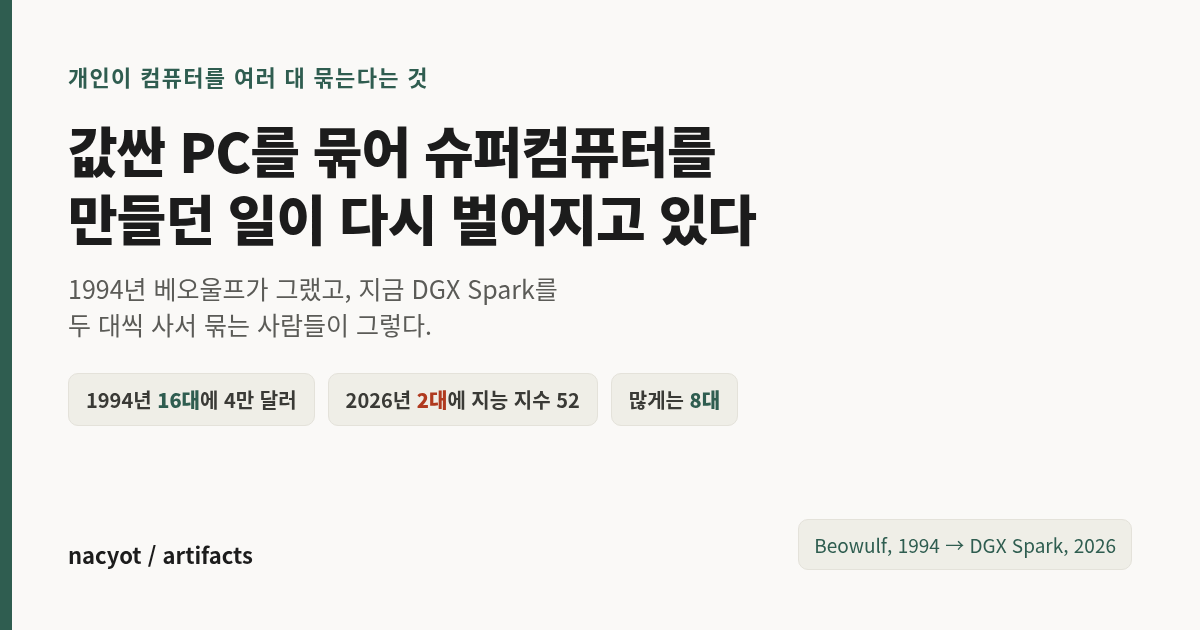
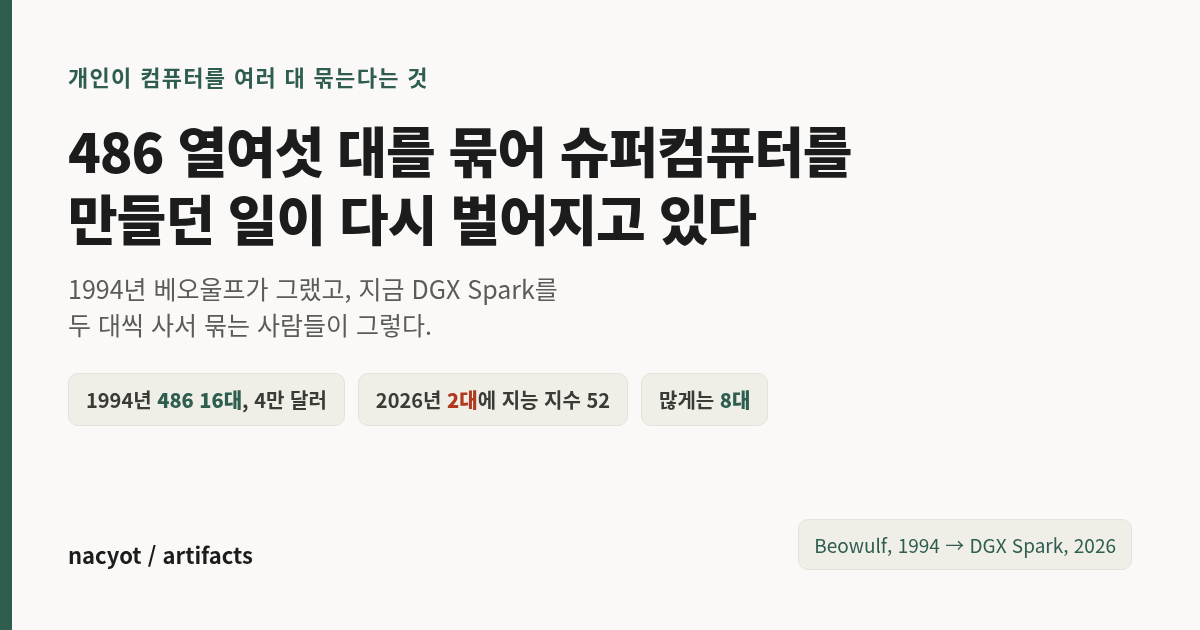
베오울프 글: 개인이 컴퓨터를 여러 대 묶는 드문 일, 1994년과 2026년
1995년 ICPP/HPDC 논문 원문, 커널 소스, NASA·Red Hat·LWN 1차 자료로
베오울프를 확인하고 지금의 DGX Spark 다중 구매와 나란히 놓았다.
모델 크기와 지능 지수가 개인 장비 한계를 언제 넘었는지 그래프 3종.

Changed region(s): [[0.0617, 0.181, 0.7092, 0.3016], [0.1233, 0.6032, 0.6475, 0.6635]]

diff --git a/beowulf-returns/index.html b/beowulf-returns/index.html
@@ -1,6 +1,6 @@
 <!DOCTYPE html><html lang="ko"><head><meta charset="utf-8">
 <meta name="viewport" content="width=device-width, initial-scale=1">
-<title>DGX Spark: 값싼 PC를 손수 짠 소프트웨어로 묶어 슈퍼컴퓨터를 만든 1994년 베오울프 프로젝트의 귀환</title>
+<title>DGX Spark: 486 PC 열여섯 대를 묶어 슈퍼컴퓨터를 만들었던 1994년 베오울프 프로젝트의 귀환</title>
 <meta name="description" content="개인이 같은 컴퓨터를 여러 대 사서 하나로 묶는 일은 컴퓨팅 역사에서 드물다. 1994년 베오울프는 시중 PC 열여섯 대를 이더넷으로 묶어 슈퍼컴퓨터를 대신했고, 그것을 가능하게 한 것은 벤더가 아니라 사용자들이 직접 짠 드라이버와 조립법이었다. 2026년 DGX Spark를 두 대씩, 많게는 여덟 대씩 사서 묶는 사람들에게서 같은 구조가 보인다. 1995년 논문 원문과 지금의 공개 기록을 나란히 놓고, 모델 크기와 지능 지수가 하드웨어 한계를 언제 넘었는지까지 그래프로 확인했다.">
 <meta name="author" content="Daegwon Nacyot Kim">
 <meta property="og:title" content="값싼 PC를 묶어 슈퍼컴퓨터를 만들던 일이 다시 벌어지고 있다">
@@ -59,7 +59,7 @@
   figure.chart figcaption{margin-top:.6rem;font-size:.84rem;color:var(--soft);line-height:1.6}
   @media(max-width:640px){body{font-size:17px}.doc{padding:2.6rem 1.2rem 5rem}}
 </style></head><body><div class="doc">
-<h1>DGX Spark: 값싼 PC를 손수 짠 소프트웨어로 묶어 슈퍼컴퓨터를 만든 1994년 베오울프 프로젝트의 귀환</h1>
+<h1>DGX Spark: 486 PC 열여섯 대를 묶어 슈퍼컴퓨터를 만들었던 1994년 베오울프 프로젝트의 귀환</h1>
 <p>개인이 같은 컴퓨터를 여러 대 사서 <strong>하나로 묶는</strong> 일은 컴퓨팅 역사에서 드물다.</p>
 <p>컴퓨터를 여러 대 갖는 것과는 다른 얘기다. 애플II와 아미가와 NeXT를 모으는 사람은 예전부터 있었지만 그건 N대를 N번 쓰는 것이다. 책상 앞에 앉아 한 번에 한 대를 쓴다. 개인이 컴퓨터를 사는 이유는 거의 언제나 <strong>자리</strong>였다. 한 사람이 한 대 앞에 앉는다. 두 대를 사도 노트북과 데스크톱, 업무용과 개인용처럼 역할이 갈렸다. 같은 기계를 같은 역할로 여러 대 사서 한 덩어리로 묶는 일은 기업과 연구소의 몫이었다.</p>
 <p>그 드문 예외가 1994년에 한 번 있었고, 지금 DGX Spark를 두 대씩, 많게는 여덟 대씩 사서 묶는 사람들에게서 다시 보인다. 이 글은 그 두 시대를 나란히 놓고 본다.</p>

diff --git a/index.html b/index.html
@@ -63,7 +63,7 @@
 
 <a class="item" href="./beowulf-returns/">
   <img class="thumb" src="./beowulf-returns/og.png" alt="" loading="lazy" width="1200" height="630">
-  <div class="body">  <h2>DGX Spark: 값싼 PC를 손수 짠 소프트웨어로 묶어 슈퍼컴퓨터를 만든 1994년 베오울프 프로젝트의 귀환</h2>
+  <div class="body">  <h2>DGX Spark: 486 PC 열여섯 대를 묶어 슈퍼컴퓨터를 만들었던 1994년 베오울프 프로젝트의 귀환</h2>
   <p>개인이 같은 컴퓨터를 여러 대 사서 하나로 묶는 일은 컴퓨팅 역사에서 드물다. 여러 대를 갖는 것과는 다른 얘기다. 1994년 NASA의 베오울프는 시중 PC 열여섯 대를 이더넷으로 묶어 4만 달러에 슈퍼컴퓨터를 대신했는데, 그것을 돌아가게 만든 것은 벤더가 아니라 사용자들이 직접 짠 드라이버와 채널 본딩과 조립법이었다. 3Com이 자기 리눅스 드라이버를 낸 것은 그로부터 6년 뒤다. 지금 DGX Spark를 두 대씩, 많게는 여덟 대씩 사서 묶는 사람들에게서 같은 구조가 보인다. 1995년 논문 원문과 커널 소스, 지금의 공개 기록을 나란히 놓았고, 모델 크기와 지능 지수가 개인 장비의 한계를 언제 넘었는지를 그래프로 확인했다.</p>
   <div class="meta">
     <span class="tag">역사</span>

diff --git a/beowulf-returns/og.html b/beowulf-returns/og.html
@@ -19,10 +19,10 @@
 <div class="bar"></div>
 <div class="wrap">
   <div class="kicker">개인이 컴퓨터를 여러 대 묶는다는 것</div>
-  <h1>값싼 PC를 묶어 슈퍼컴퓨터를<br>만들던 일이 다시 벌어지고 있다</h1>
+  <h1>486 열여섯 대를 묶어 슈퍼컴퓨터를<br>만들던 일이 다시 벌어지고 있다</h1>
   <div class="sub">1994년 베오울프가 그랬고, 지금 DGX Spark를<br>두 대씩 사서 묶는 사람들이 그렇다.</div>
   <div class="stats">
-    <div class="chip">1994년 <b>16대</b>에 4만 달러</div>
+    <div class="chip">1994년 <b>486 16대</b>, 4만 달러</div>
     <div class="chip alt">2026년 <b>2대</b>에 지능 지수 52</div>
     <div class="chip">많게는 <b>8대</b></div>
   </div>
